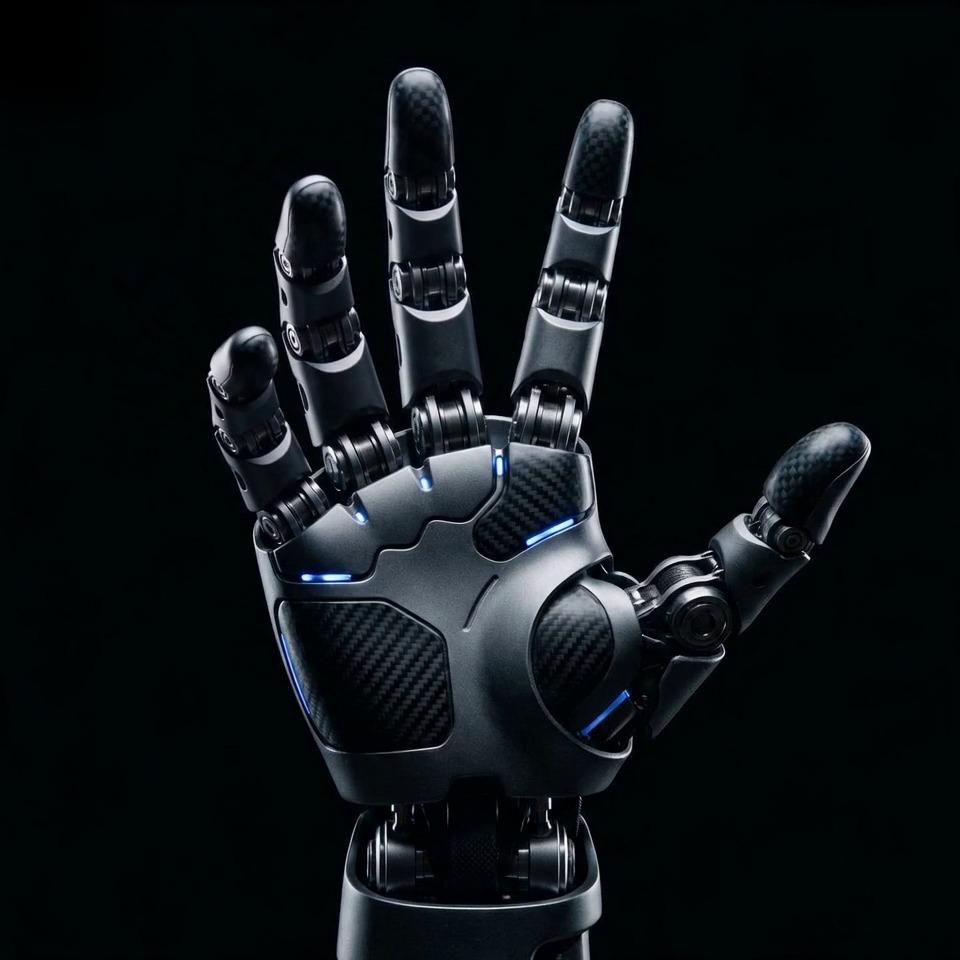
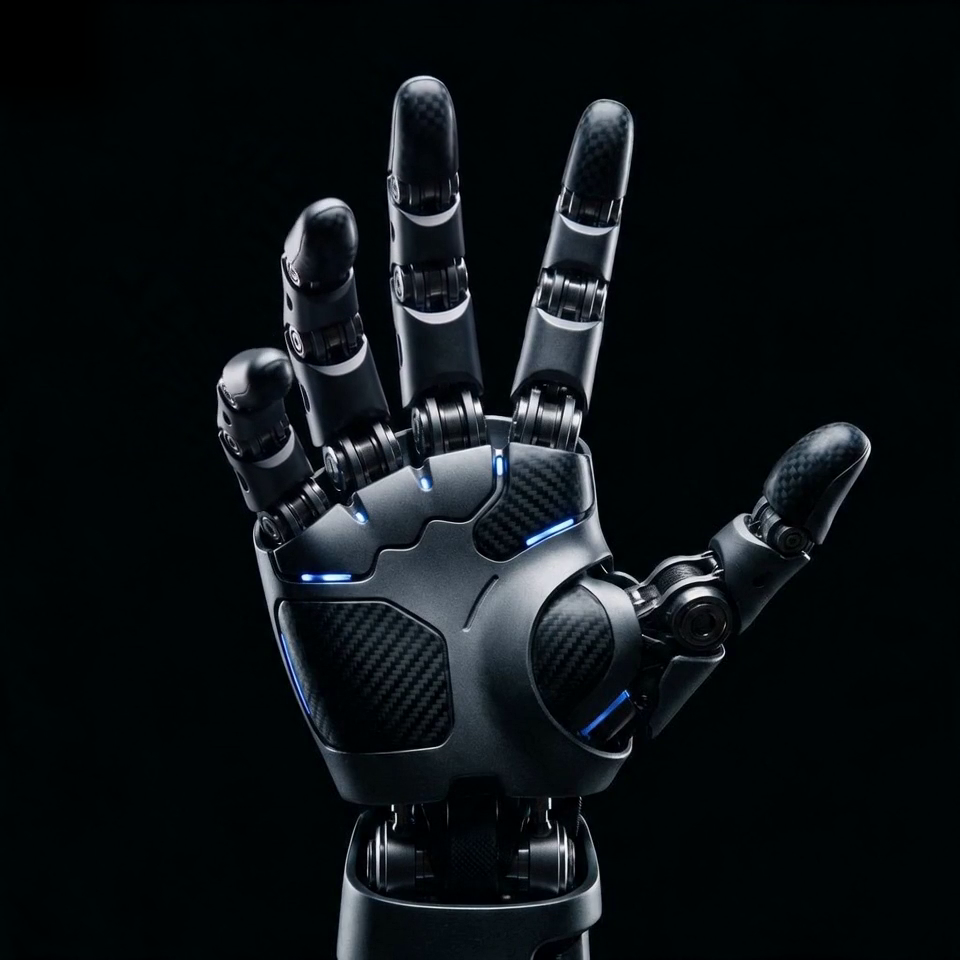
Smooth robot hand pose transitions

diff --git a/assets/js/hand-tracking-demo.js b/assets/js/hand-tracking-demo.js
@@ -11,6 +11,8 @@
   var VISION_BUNDLE_URL = 'https://cdn.jsdelivr.net/npm/@mediapipe/tasks-vision@latest/vision_bundle.mjs';
   var WASM_ROOT_URL = 'https://cdn.jsdelivr.net/npm/@mediapipe/tasks-vision@latest/wasm';
   var MODEL_ASSET_URL = 'https://storage.googleapis.com/mediapipe-models/hand_landmarker/hand_landmarker/float16/1/hand_landmarker.task';
+  var POSE_SWITCH_MARGIN = 120;
+  var POSE_SWITCH_CONFIRM_FRAMES = 2;
 
   var HAND_CONNECTIONS = [
     [0, 1], [1, 2], [2, 3], [3, 4],
@@ -31,40 +33,64 @@
 
   var ROBOT_POSE_LIBRARY = [
     {
-      key: 'fist',
-      label: 'Fist',
-      src: 'assets/images/projects/robot-hand-poses/pose-fist.png',
-      targets: [10, 10, 10, 10, 10]
+      key: 'open',
+      label: 'Open Hand',
+      src: 'assets/images/projects/robot-hand-poses/pose-open.png',
+      targets: [94, 100, 100, 100, 100]
     },
     {
-      key: 'hook',
-      label: 'Hook',
-      src: 'assets/images/projects/robot-hand-poses/pose-hook.png',
-      targets: [55, 18, 16, 18, 16]
-    },
-    {
-      key: 'claw',
-      label: 'Claw',
-      src: 'assets/images/projects/robot-hand-poses/pose-claw.png',
-      targets: [72, 42, 36, 36, 32]
-    },
-    {
-      key: 'thumb-open',
-      label: 'Thumb Open',
-      src: 'assets/images/projects/robot-hand-poses/pose-thumb-open.png',
-      targets: [95, 74, 76, 72, 68]
+      key: 'open-soft',
+      label: 'Open Soft',
+      src: 'assets/images/projects/robot-hand-poses/pose-open-soft.png',
+      targets: [94, 97, 98, 96, 96]
     },
     {
       key: 'relaxed-open',
       label: 'Relaxed Open',
       src: 'assets/images/projects/robot-hand-poses/pose-relaxed-open.png',
-      targets: [82, 88, 94, 90, 84]
+      targets: [94, 91, 93, 91, 89]
     },
     {
-      key: 'open',
-      label: 'Open Hand',
-      src: 'assets/images/projects/robot-hand-poses/pose-open.png',
-      targets: [84, 100, 100, 100, 100]
+      key: 'thumb-open',
+      label: 'Thumb Open',
+      src: 'assets/images/projects/robot-hand-poses/pose-thumb-open.png',
+      targets: [96, 82, 84, 80, 78]
+    },
+    {
+      key: 'curl-soft',
+      label: 'Curl Soft',
+      src: 'assets/images/projects/robot-hand-poses/pose-curl-soft.png',
+      targets: [94, 72, 74, 70, 68]
+    },
+    {
+      key: 'claw',
+      label: 'Claw',
+      src: 'assets/images/projects/robot-hand-poses/pose-claw.png',
+      targets: [90, 58, 56, 54, 52]
+    },
+    {
+      key: 'grip-mid',
+      label: 'Grip Mid',
+      src: 'assets/images/projects/robot-hand-poses/pose-grip-mid.png',
+      targets: [84, 46, 44, 42, 40]
+    },
+    {
+      key: 'grip-tight',
+      label: 'Grip Tight',
+      src: 'assets/images/projects/robot-hand-poses/pose-grip-tight.png',
+      targets: [76, 32, 30, 28, 26]
+    },
+    {
+      key: 'hook',
+      label: 'Hook',
+      src: 'assets/images/projects/robot-hand-poses/pose-hook.png',
+      targets: [68, 22, 20, 18, 18]
+    },
+    {
+      key: 'fist',
+      label: 'Fist',
+      src: 'assets/images/projects/robot-hand-poses/pose-fist.png',
+      targets: [24, 10, 10, 10, 10]
     },
     {
       key: 'rock',
@@ -377,24 +403,39 @@
     });
   }
 
+  function findPoseByKey(key) {
+    var index;
+    for (index = 0; index < ROBOT_POSE_LIBRARY.length; index += 1) {
+      if (ROBOT_POSE_LIBRARY[index].key === key) return ROBOT_POSE_LIBRARY[index];
+    }
+    return null;
+  }
+
+  function scoreRobotPose(pose, values) {
+    var score = 0;
+    pose.targets.forEach(function (target, index) {
+      var delta = (values[index] || 0) - target;
+      score += delta * delta;
+    });
+    return score;
+  }
+
   function pickRobotPose(values) {
     var bestPose = ROBOT_POSE_LIBRARY[0];
     var bestScore = Infinity;
 
     ROBOT_POSE_LIBRARY.forEach(function (pose) {
-      var score = 0;
-      pose.targets.forEach(function (target, index) {
-        var delta = (values[index] || 0) - target;
-        score += delta * delta;
-      });
-
+      var score = scoreRobotPose(pose, values);
       if (score < bestScore) {
         bestScore = score;
         bestPose = pose;
       }
     });
 
-    return bestPose;
+    return {
+      pose: bestPose,
+      score: bestScore
+    };
   }
 
   function computeRobotPoints(landmarks, width, height) {
@@ -459,7 +500,8 @@
     var handednessMetric = document.getElementById('handednessMetric');
     var gestureMetric = document.getElementById('gestureMetric');
     var depthMetric = document.getElementById('depthMetric');
-    var robotImage = robotStage ? robotStage.querySelector('.robot-hand-visual') : null;
+    var robotBaseImage = robotStage ? robotStage.querySelector('.robot-hand-visual-base') : null;
+    var robotBlendImage = document.getElementById('robotHandBlendVisual');
     var poseReferenceCards = Array.prototype.slice.call(document.querySelectorAll('.pose-reference-card'));
     var fingerMetrics = {
       thumb: {
@@ -489,7 +531,7 @@
       !robotBackdrop || !robotMotion ||
       !placeholder || !requestBtn || !disconnectBtn || !status ||
       !trackingChip || !robotTrackingState || !trackingMetric ||
-      !handednessMetric || !gestureMetric || !depthMetric || !robotImage ||
+      !handednessMetric || !gestureMetric || !depthMetric || !robotBaseImage || !robotBlendImage ||
       !fingerMetrics.thumb.value || !fingerMetrics.thumb.bar ||
       !fingerMetrics.index.value || !fingerMetrics.index.bar ||
       !fingerMetrics.middle.value || !fingerMetrics.middle.bar ||
@@ -511,7 +553,10 @@
       smoothedRobotPoints: null,
       smoothedFingerValues: null,
       smoothedRotation: { x: 0, y: 0, z: 0 },
+      pendingRobotPoseKey: '',
+      pendingRobotPoseFrames: 0,
       currentRobotPoseKey: '',
+      poseBlendRafId: 0,
       destroyed: false
     };
 
@@ -539,10 +584,42 @@
       });
     }
 
-    function setRobotPose(pose) {
-      if (!pose || state.currentRobotPoseKey === pose.key) return;
+    function resetPendingRobotPose() {
+      state.pendingRobotPoseKey = '';
+      state.pendingRobotPoseFrames = 0;
+    }
+
+    function clearPoseBlend() {
+      if (state.poseBlendRafId) {
+        cancelAnimationFrame(state.poseBlendRafId);
+        state.poseBlendRafId = 0;
+      }
+      robotBlendImage.classList.remove('is-visible');
+    }
+
+    function setRobotPose(pose, skipBlend) {
+      if (!pose) return;
+      if (state.currentRobotPoseKey === pose.key && !skipBlend) return;
+
+      var previousSrc = robotBaseImage.getAttribute('src') || pose.src;
+      clearPoseBlend();
+
+      if (!state.currentRobotPoseKey || skipBlend) {
+        robotBaseImage.src = pose.src;
+        robotBlendImage.src = pose.src;
+      } else {
+        robotBlendImage.src = previousSrc;
+        robotBlendImage.classList.add('is-visible');
+        robotBaseImage.src = pose.src;
+        state.poseBlendRafId = requestAnimationFrame(function () {
+          state.poseBlendRafId = requestAnimationFrame(function () {
+            robotBlendImage.classList.remove('is-visible');
+            state.poseBlendRafId = 0;
+          });
+        });
+      }
+
       state.currentRobotPoseKey = pose.key;
-      robotImage.src = pose.src;
       robotBackdrop.setAttribute('data-pose', pose.key);
       robotStage.style.setProperty('--robot-stage-image', 'url("' + pose.src + '")');
       poseReferenceCards.forEach(function (card) {
@@ -560,8 +637,10 @@
 
     function resetRobotTransform() {
       state.smoothedRotation = { x: 0, y: 0, z: 0 };
+      clearPoseBlend();
       robotMotion.style.transform = 'perspective(1400px) rotateX(0deg) rotateY(0deg) rotateZ(0deg)';
-      robotImage.style.transform = 'translate3d(0px, 0px, 16px) scale(1)';
+      robotBaseImage.style.transform = 'translate3d(0px, 0px, 16px) scale(1)';
+      robotBlendImage.style.transform = 'translate3d(0px, 0px, 16px) scale(1)';
     }
 
     function applyRobotTransform(targetRotation, hasHand, worldLandmarks, landmarks) {
@@ -584,9 +663,45 @@
         'perspective(1400px) rotateX(' + state.smoothedRotation.x.toFixed(2) + 'deg) ' +
         'rotateY(' + state.smoothedRotation.y.toFixed(2) + 'deg) ' +
         'rotateZ(' + state.smoothedRotation.z.toFixed(2) + 'deg)';
-      robotImage.style.transform =
+      var transformValue =
         'translate3d(' + offsetX.toFixed(2) + 'px, ' + offsetY.toFixed(2) + 'px, 16px) ' +
         'scale(' + depthScale.toFixed(3) + ')';
+      robotBaseImage.style.transform = transformValue;
+      robotBlendImage.style.transform = transformValue;
+    }
+
+    function selectStableRobotPose(values) {
+      var bestMatch = pickRobotPose(values);
+      var currentPose = findPoseByKey(state.currentRobotPoseKey);
+
+      if (!currentPose) {
+        resetPendingRobotPose();
+        return bestMatch.pose;
+      }
+
+      if (currentPose.key === bestMatch.pose.key) {
+        resetPendingRobotPose();
+        return currentPose;
+      }
+
+      if (scoreRobotPose(currentPose, values) <= bestMatch.score + POSE_SWITCH_MARGIN) {
+        resetPendingRobotPose();
+        return currentPose;
+      }
+
+      if (state.pendingRobotPoseKey !== bestMatch.pose.key) {
+        state.pendingRobotPoseKey = bestMatch.pose.key;
+        state.pendingRobotPoseFrames = 1;
+        return currentPose;
+      }
+
+      state.pendingRobotPoseFrames += 1;
+      if (state.pendingRobotPoseFrames < POSE_SWITCH_CONFIRM_FRAMES) {
+        return currentPose;
+      }
+
+      resetPendingRobotPose();
+      return bestMatch.pose;
     }
 
     function stopStream() {
@@ -697,11 +812,14 @@
       depthMetric.textContent = '0.0 cm';
       setStatus('granted', '손이 화면 안에 들어오면 21개 랜드마크와 로봇손 매핑이 시작됩니다.');
       applyRobotTransform({ x: 0, y: 0, z: 0 }, false, null, null);
+      resetPendingRobotPose();
       Object.keys(fingerMetrics).forEach(function (key) {
         fingerMetrics[key].value.textContent = '0%';
         fingerMetrics[key].bar.style.width = '0%';
       });
-      setRobotPose(ROBOT_POSE_LIBRARY[5]);
+      if (state.currentRobotPoseKey !== 'open') {
+        setRobotPose(findPoseByKey('open'), true);
+      }
 
       clearCanvas(robotCtx, robotCanvas);
     }
@@ -727,7 +845,7 @@
         fingerData.map(function (item) { return item.value; }),
         0.28
       );
-      var selectedRobotPose = pickRobotPose(smoothedFingerValues);
+      var selectedRobotPose = selectStableRobotPose(smoothedFingerValues);
 
       state.smoothedRobotPoints = robotPoints;
       state.smoothedFingerValues = smoothedFingerValues;
@@ -866,7 +984,7 @@
     disconnectBtn.addEventListener('click', disconnectCamera);
 
     preloadRobotPoses();
-    setRobotPose(ROBOT_POSE_LIBRARY[5]);
+    setRobotPose(findPoseByKey('open'), true);
 
     window.addEventListener('beforeunload', function () {
       state.destroyed = true;

diff --git a/assets/css/sections.css b/assets/css/sections.css
@@ -433,8 +433,22 @@
   object-fit: cover;
   transform-origin: 50% 58%;
   box-shadow: 0 20px 40px rgba(0, 0, 0, 0.28);
-  transition: transform 0.14s linear, filter 0.18s ease, opacity 0.18s ease;
+  transition: transform 0.14s linear, filter 0.18s ease, opacity 0.28s ease;
   filter: saturate(1.05) contrast(1.06);
+}
+
+.hero-experiment-card .robot-hand-visual-base {
+  z-index: 1;
+}
+
+.hero-experiment-card .robot-hand-visual-blend {
+  z-index: 2;
+  opacity: 0;
+  pointer-events: none;
+}
+
+.hero-experiment-card .robot-hand-visual-blend.is-visible {
+  opacity: 1;
 }
 
 .hero-experiment-card .camera-preview-video {
@@ -462,6 +476,10 @@
 .hero-experiment-card .robot-stage-glow,
 .hero-experiment-card .camera-stage-mask {
   pointer-events: none;
+}
+
+.hero-experiment-card .robot-mapping-canvas {
+  z-index: 3;
 }
 
 .hero-experiment-card .camera-stage-mask {
@@ -605,6 +623,7 @@
 }
 
 .hero-experiment-card .robot-stage-glow {
+  z-index: 4;
   background:
     radial-gradient(circle at 50% 72%, rgba(0, 212, 255, 0.12), transparent 34%),
     radial-gradient(circle at 50% 50%, rgba(176, 111, 216, 0.09), transparent 56%);

diff --git a/index.html b/index.html
@@ -112,7 +112,8 @@
             <div class="robot-stage" id="robotStage">
               <div class="robot-stage-backdrop" id="robotStageBackdrop" aria-hidden="true"></div>
               <div class="robot-stage-motion" id="robotStageMotion">
-                <img class="robot-hand-visual" src="assets/images/projects/robot-hand-poses/pose-open.png" alt="다섯 손가락 로봇손 핸드트래킹 이미지">
+                <img class="robot-hand-visual robot-hand-visual-base" src="assets/images/projects/robot-hand-poses/pose-open.png" alt="다섯 손가락 로봇손 핸드트래킹 이미지">
+                <img class="robot-hand-visual robot-hand-visual-blend" id="robotHandBlendVisual" src="assets/images/projects/robot-hand-poses/pose-open.png" alt="" aria-hidden="true">
                 <canvas class="robot-mapping-canvas" id="robotMappingCanvas"></canvas>
                 <div class="robot-stage-glow" aria-hidden="true"></div>
               </div>

diff --git a/scripts/extract_hand_motion_frames.py b/scripts/extract_hand_motion_frames.py
@@ -23,7 +23,7 @@ def parse_args() -> argparse.Namespace:
     )
     parser.add_argument("--source", required=True, help="Directory containing source mp4 files.")
     parser.add_argument("--output", required=True, help="Directory to write extracted review assets.")
-    parser.add_argument("--samples", type=int, default=9, help="Number of evenly spaced samples per clip.")
+    parser.add_argument("--samples", type=int, default=13, help="Number of evenly spaced samples per clip.")
     parser.add_argument(
         "--trim-start",
         type=float,
